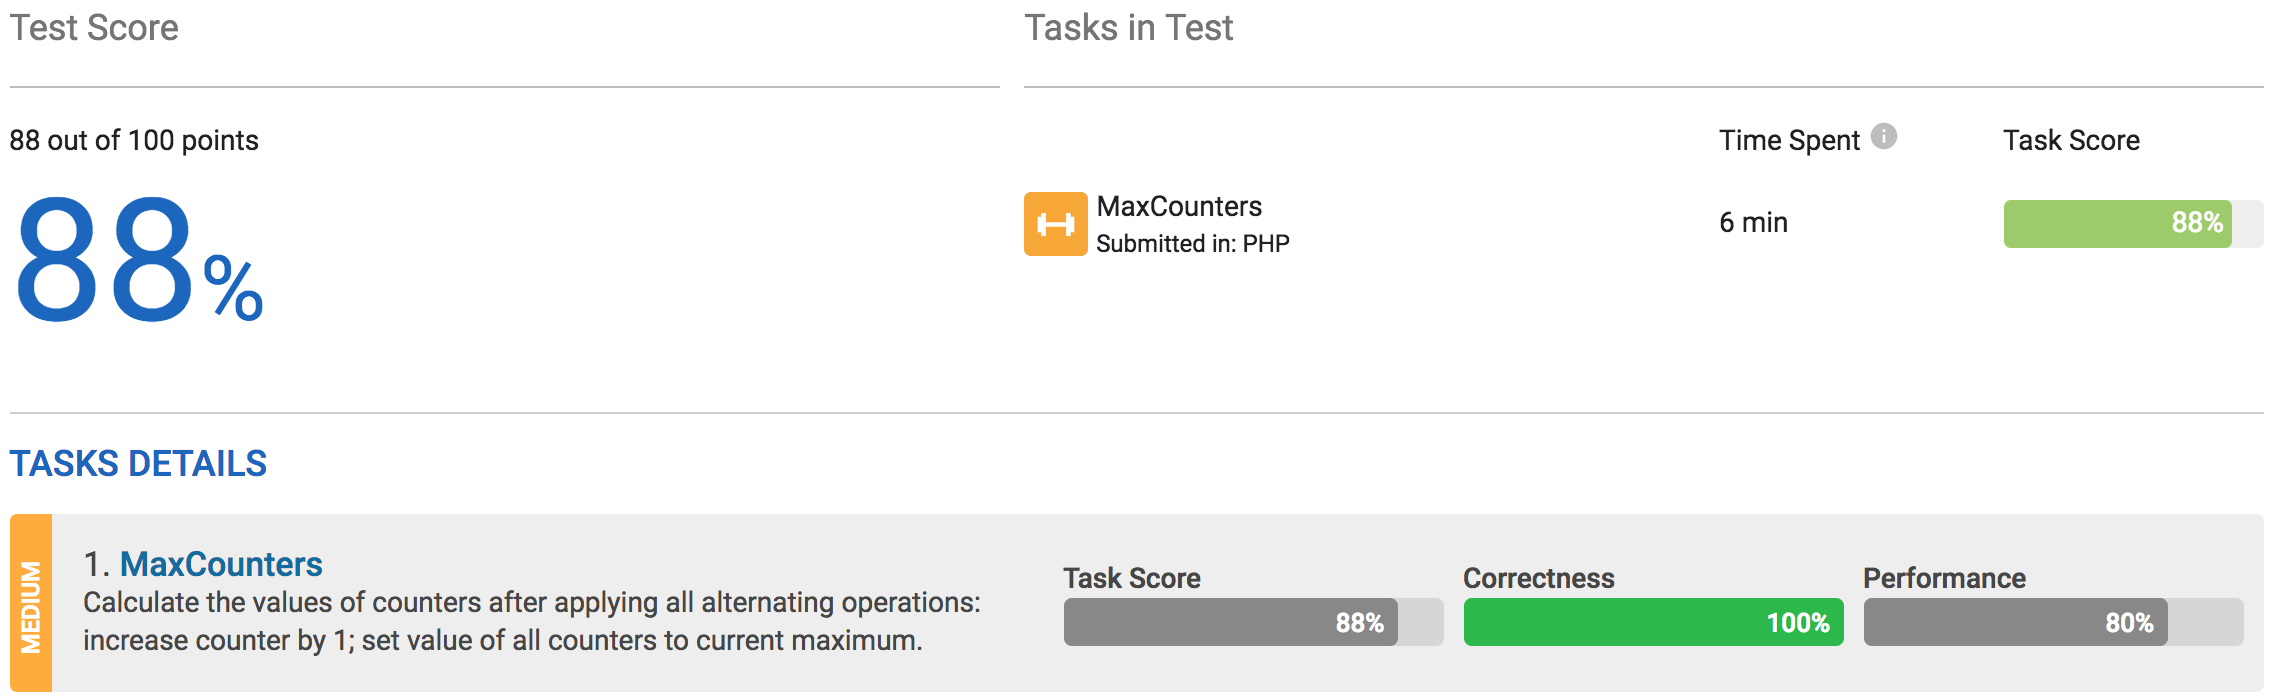
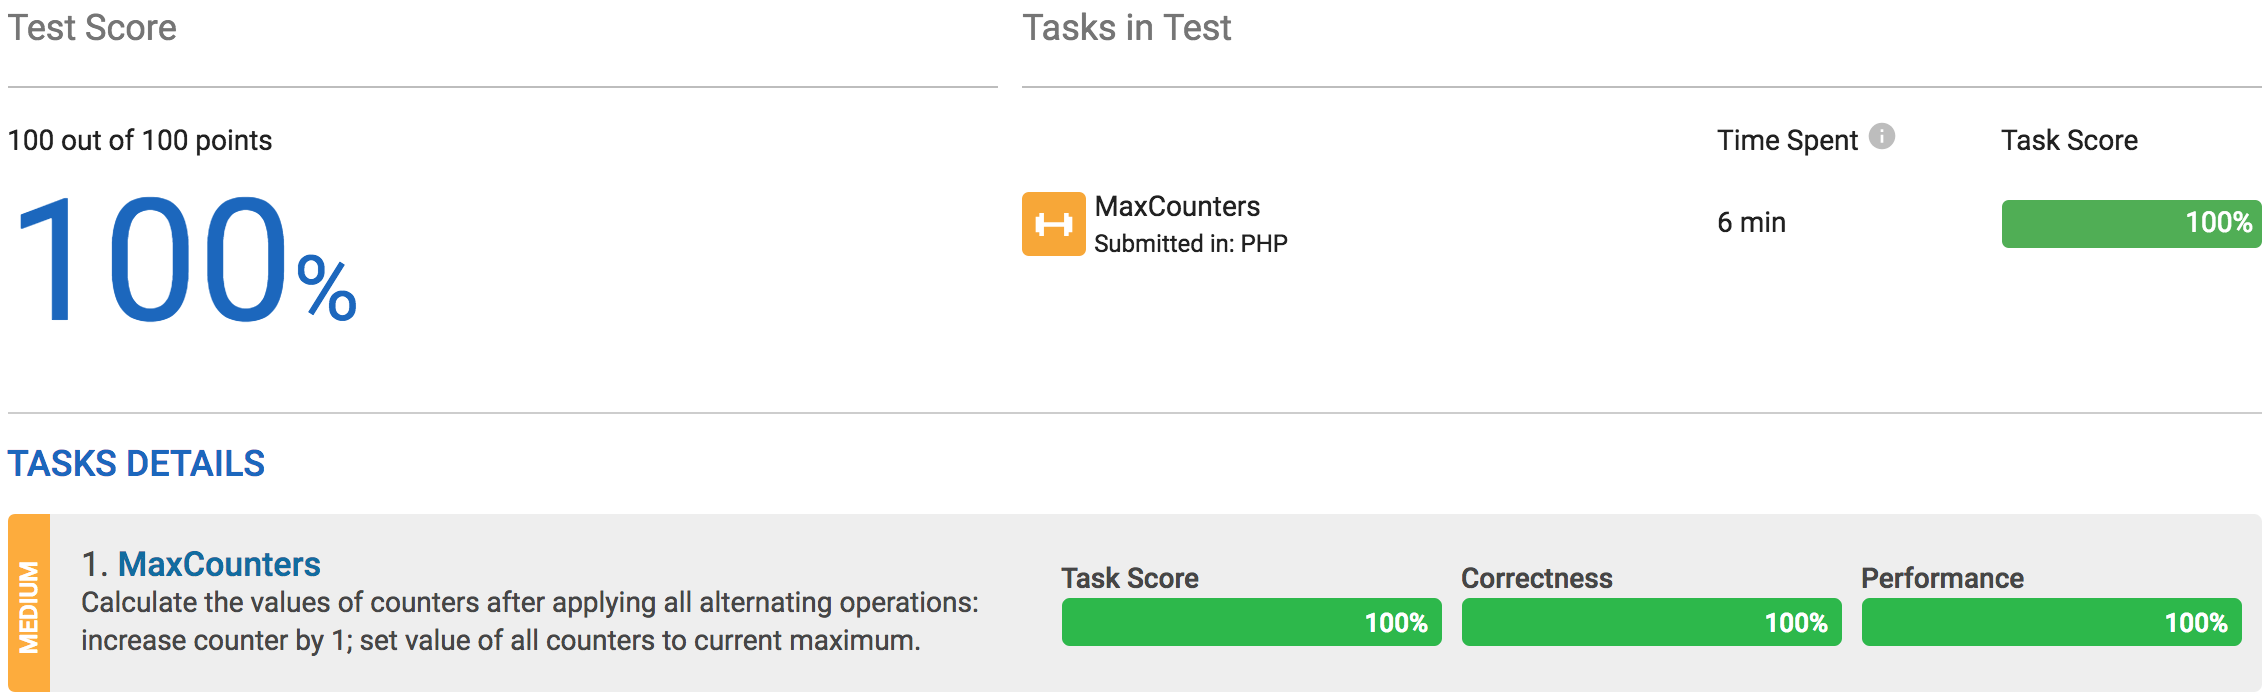
Awesome Completed for MaxCounters of Lesson_4_CountingElements!!

diff --git a/Lessons/4_CountingElements/Tasks_MaxCounters/Answer.php b/Lessons/4_CountingElements/Tasks_MaxCounters/Answer.php
@@ -21,6 +21,7 @@ function solution($A) {
 
     for ($i = 0; $i < $arrLength; $i++)
     {
+        
         if ($A[$i] >= $min && $A[$i] <= $N)
         {
             $index = $A[$i]-1;
@@ -46,18 +47,15 @@ function solution($A) {
         }
     }
 
-    if ($maxOperation[0] === 1)
+    for ($j = 0; $j < $N; $j++)
     {
-        for ($j = 0; $j < $N; $j++)
+        if (!isset($tmpArray[$j])) $tmpArray[$j] = 0;
+
+        if ($maxOperation[0] === 1 && $tmpArray[$j] < $maxOperation[1])
         {
-            if (!isset($tmpArray[$j])) $tmpArray[$j] = $maxOperation[1];
-
-            if ($tmpArray[$j] < $maxOperation[1])
-            {
-                $tmpArray[$j] = $maxOperation[1];
-            }
-
+            $tmpArray[$j] = $maxOperation[1];
         }
+
     }
 
     return $tmpArray;
